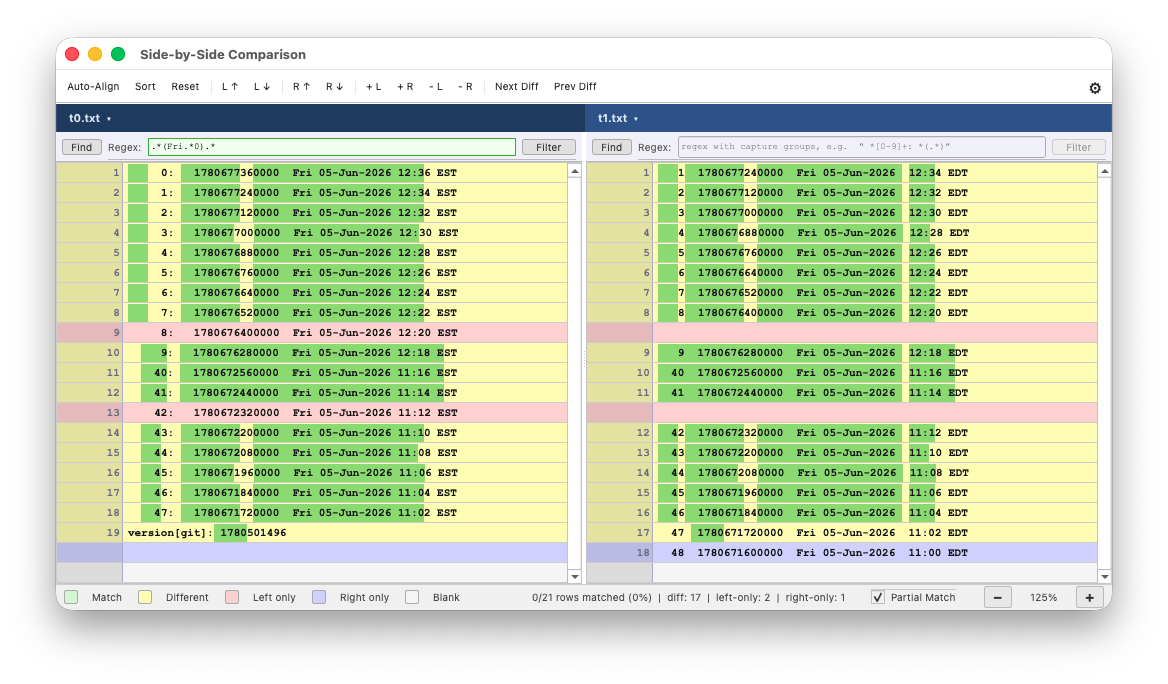
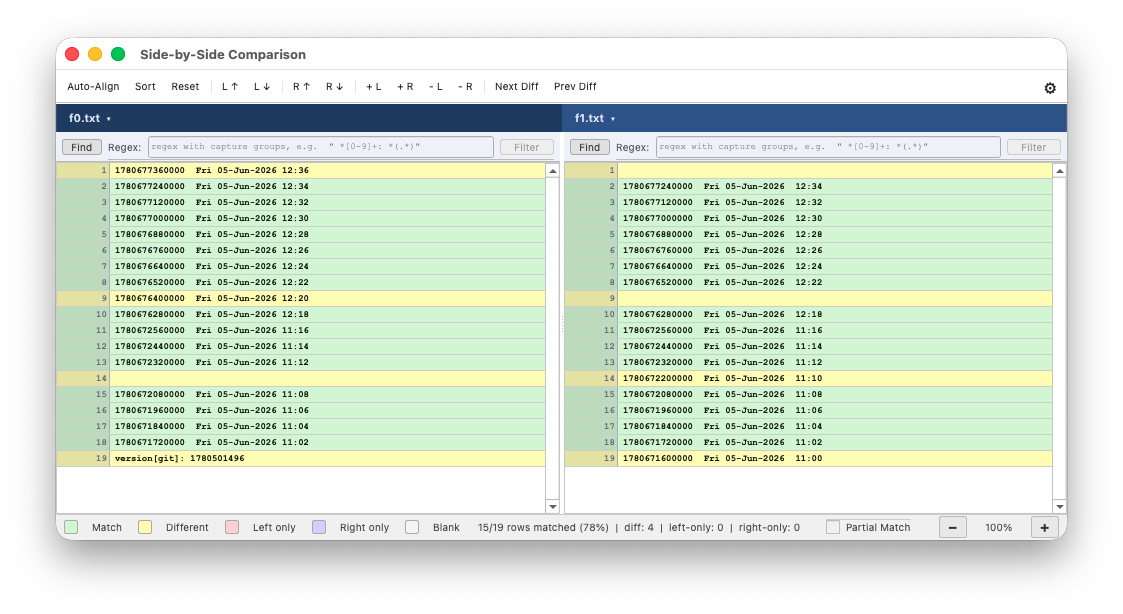
update readme images

diff --git a/README.md b/README.md
@@ -55,6 +55,19 @@ matters for comparison.
 
 <img src="screens/regex-after.png" width="800" alt="After applying a regex filter">
 
+<p><hr>
+
+**File Menu**
+
+<img src="screens/file-menu.png" width="800" alt="File menu">
+
+<p><hr>
+
+**Settings**
+
+<img src="screens/settings-appearance.png" width="400" alt="Settings appearance">
+<img src="screens/settings-about.png" width="400" alt="Settings about">
+
 ---
 
 ## Features